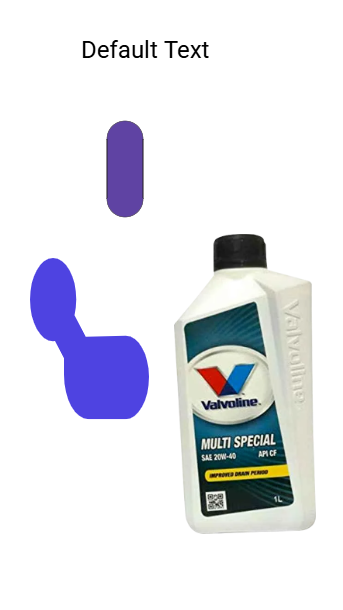
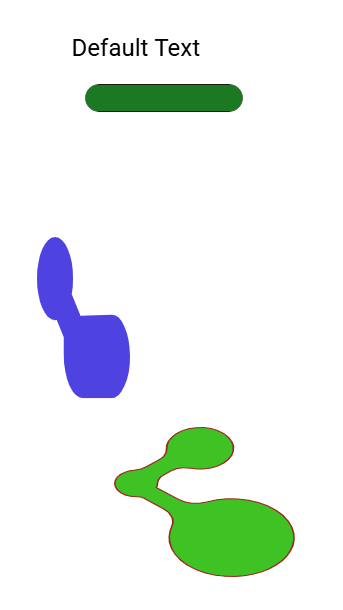
shape changes

diff --git a/AnimationProject/wwwroot/js/animations.js b/AnimationProject/wwwroot/js/animations.js
@@ -7708,7 +7708,7 @@ canvas.addEventListener('drop', e => {
             strokeNoColorStatus: false,
             fillNoColor: "#FFFFFF",
             strokeNoColor: "#FFFFFF",
-            strokeWidth: parseInt(document.getElementById('ddlStrokeWidth').value, 10) || 0.5,
+            strokeWidth: parseInt(document.getElementById('ddlStrokeWidth').value, 10) || 1,
 
             // <-- Here’s the flag your renderer can read:
             isBasic:isBasic
@@ -7718,7 +7718,9 @@ canvas.addEventListener('drop', e => {
         textObjects.forEach(t => t.selected = false);
         images.push(newImgObj);
         activeBox = newImgObj;
-        //ChangeFillColor();
+        if (isBasic) {
+            ChangeFillColor();
+        }
         drawText();
     };
     img.src = src;
@@ -11318,25 +11320,29 @@ canvas.addEventListener("mousemove", e => {
             // IMAGES: normalized ("l","r","t","b")
             scaleImageBoxWithHandle(activeBox, side, mx, my);
 
-            // NEW: Stop BASIC shapes exactly at curvature limit and freeze handle
-            const { clamped, edgeX, edgeY } = __clampBasicSideResize(activeBox, side);
-            if (clamped) {
-                if (side === 'l' || side === 'r') {
-                    if (typeof edgeX === 'number') prevMouseX = edgeX;
-                } else if (side === 't' || side === 'b') {
-                    if (typeof edgeY === 'number') prevMouseY = edgeY;
-                }
+            // NEW: Stop BASIC shapes at curvature limit ONLY for left/right; keep top/bottom unchanged
+            let snappedX = null; // preserve snap so we don't overwrite later
+            if (side === 'l' || side === 'r') {
+                const { clamped, edgeX } = __clampBasicSideResize(activeBox, side);
+                if (clamped && typeof edgeX === 'number') snappedX = edgeX;
             }
+
+            // update prevs without losing snap
+            prevMouseX = (snappedX !== null ? snappedX : mx);
+            prevMouseY = my;
+
         } else {
             // TEXT: raw ("mr","ml","mt","mb" or already-short)
             scaleTextBoxWithHandle(activeBox, resizeDirectionRaw || resizeDirection, mx, my);
+            prevMouseX = mx;
+            prevMouseY = my;
         }
 
-        prevMouseX = mx; prevMouseY = my;
         drawText();
         return;
     }
 });
+
 
 
 window.addEventListener("mouseup", () => {
